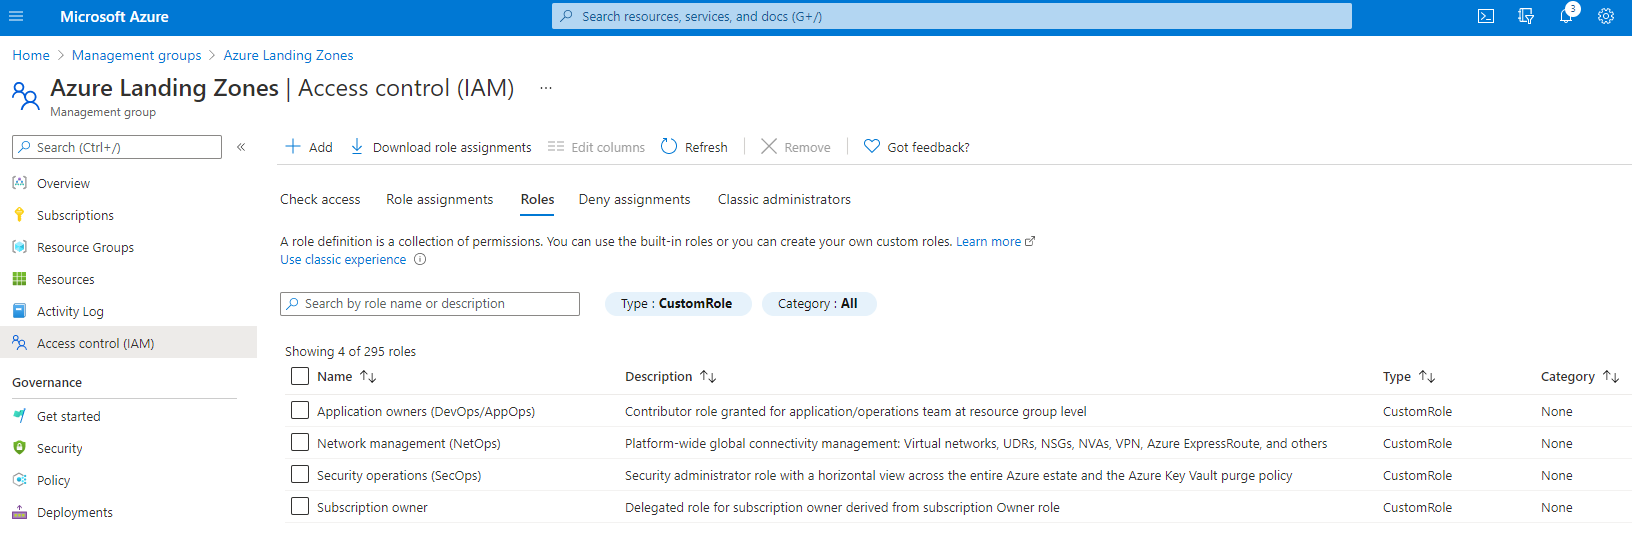
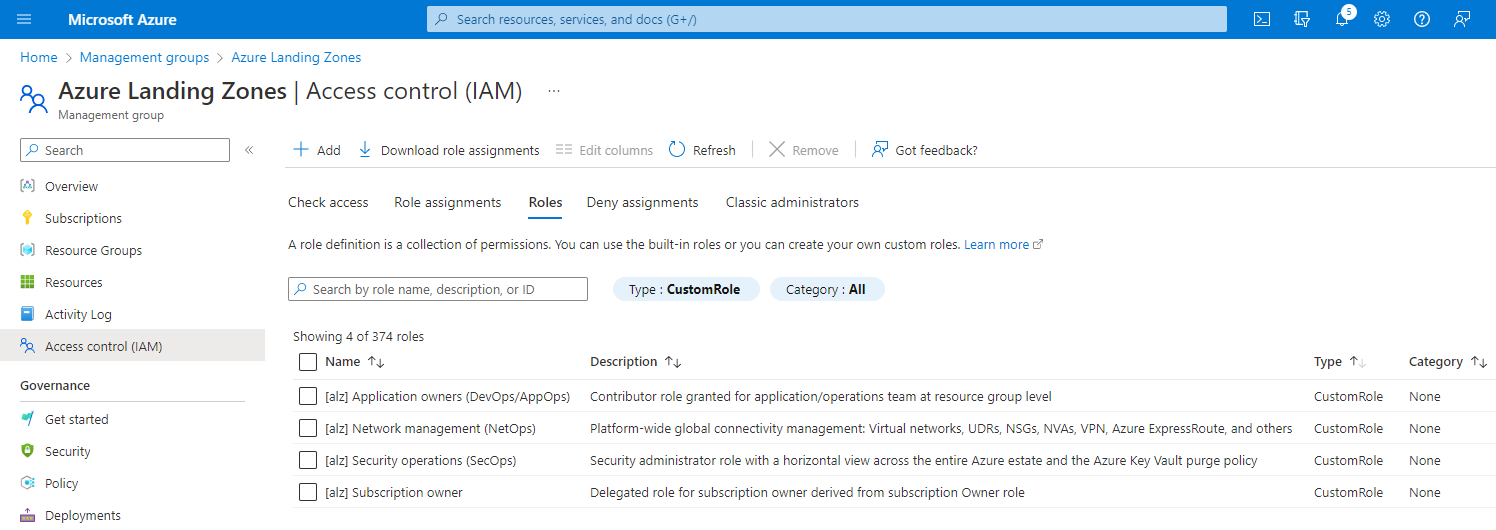
fix: Update role ID and name (#379)

diff --git a/infra-as-code/bicep/modules/customRoleDefinitions/README.md b/infra-as-code/bicep/modules/customRoleDefinitions/README.md
@@ -4,10 +4,13 @@ This module defines custom roles based on the recommendations from the Azure Lan
 
 Module supports the following custom roles:
 
-- Subscription owner
-- Application owners (DevOps/AppOps)
-- Network management (NetOps)
-- Security operations (SecOps)
+- [*ManagementGroupId] Subscription owner
+- [*ManagementGroupId] Application owners (DevOps/AppOps)
+- [*ManagementGroupId] Network management (NetOps)
+- [*ManagementGroupId] Security operations (SecOps)
+
+*The custom role names are prefixed with `[ManagementGroupId]` since custom roles scoped at Management Group level must be unique within the Azure AD tenant. This will alleviate any conflicts if you chose to deploy a [canary environment](https://aka.ms/alz/canary).
+For example, if the `ManagementGroupId` = **alz**, then each role will have this prefix **[alz]** like `[alz] Subscription owner`. See the [example output deployment](#example-deployment-output) below.
 
 ## Parameters
 
@@ -111,6 +114,8 @@ $inputObject = @{
 
 New-AzManagementGroupDeployment @inputObject
 ```
+
+#### Example Deployment Output
 
 ![Example Deployment Output](media/exampleDeploymentOutput.png "Example Deployment Output")
 
